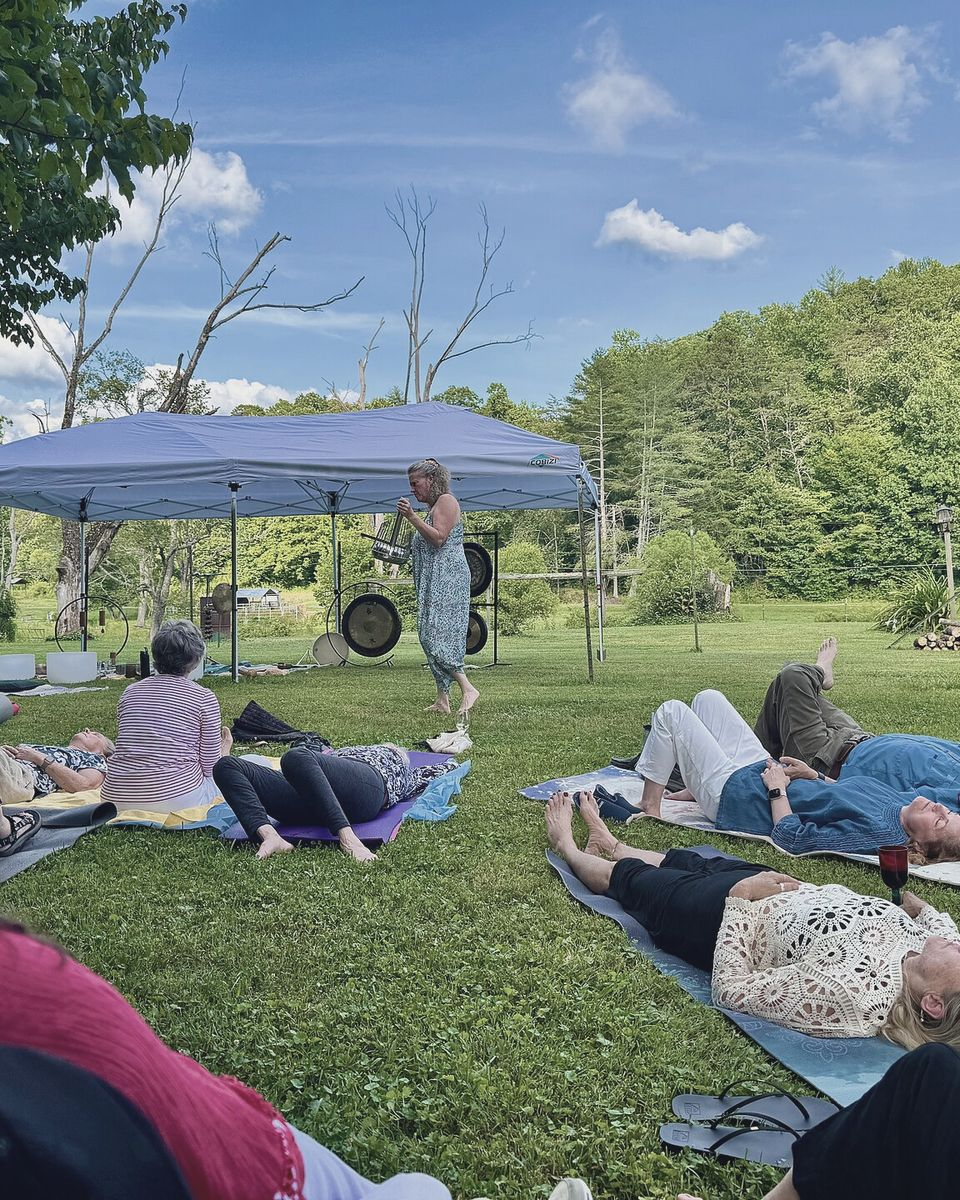
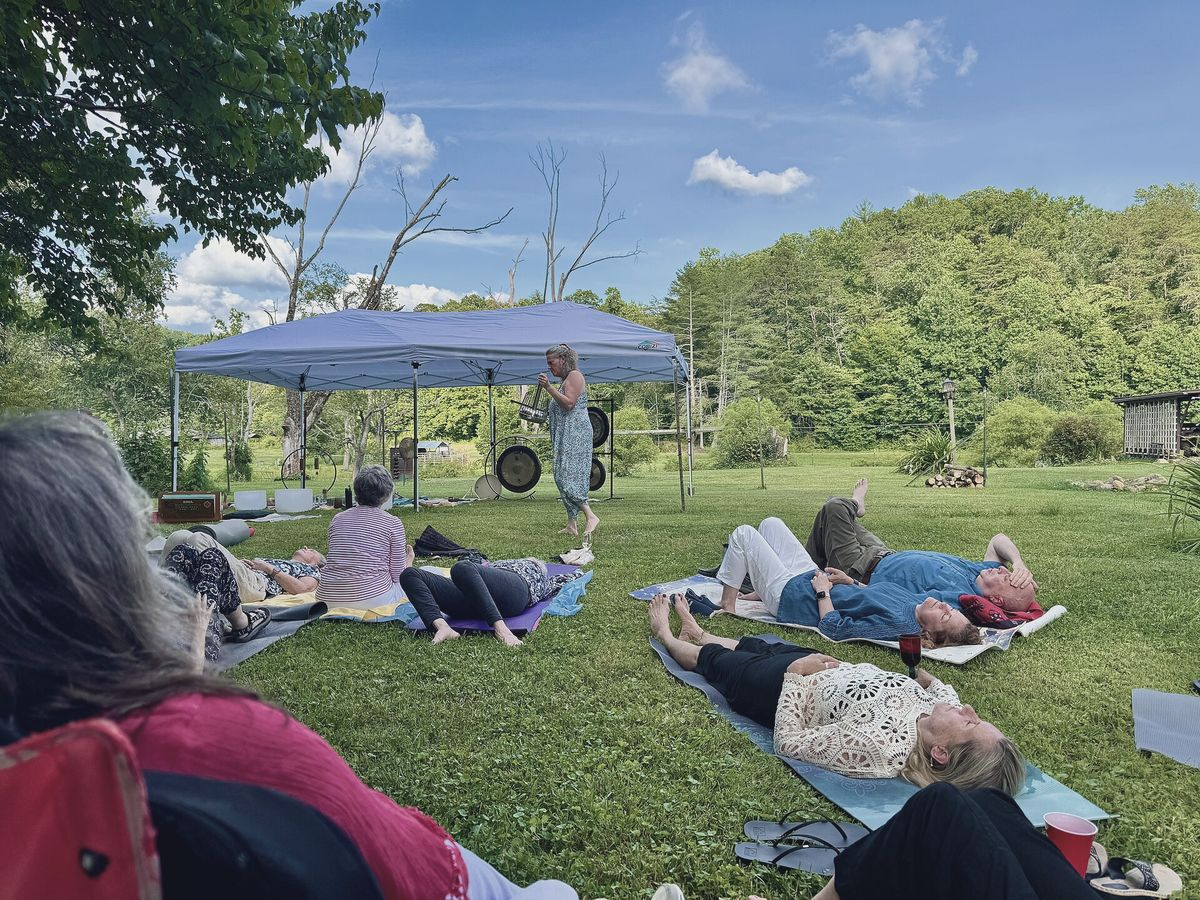
Replace sticky session photo with inline photos per session
The pinned photo released mid-scroll and swapped images at points
that did not match the text being read. Each session now sits beside
its own landscape photo, so the section scrolls as one piece. Also
removes the scroll-tracking script, updates the facilitator photo,
makes the scrolled header solid ivory, and bumps asset versions.

diff --git a/index.html b/index.html
@@ -22,7 +22,7 @@
   <link rel="preconnect" href="https://fonts.googleapis.com">
   <link rel="preconnect" href="https://fonts.gstatic.com" crossorigin>
   <link rel="stylesheet" href="https://fonts.googleapis.com/css2?family=EB+Garamond:ital,wght@0,400;0,500;1,400&family=Jost:wght@300;400;500&display=swap">
-  <link rel="stylesheet" href="css/styles.css?v=2">
+  <link rel="stylesheet" href="css/styles.css?v=3">
 
   <script type="application/ld+json">
   {
@@ -131,55 +131,55 @@
         </div>
 
         <div class="sessions__layout">
-          <div class="sessions__visual" aria-hidden="true">
-            <div class="sessions__frame">
-              <img src="images/session-private.jpg" width="960" height="1200" alt="" class="is-active" data-session-img="private" decoding="async">
-              <img src="images/session-group.jpg" width="960" height="1200" alt="" data-session-img="group" loading="lazy" decoding="async">
-              <img src="images/session-circle.jpg" width="960" height="1200" alt="" data-session-img="circle" loading="lazy" decoding="async">
-              <img src="images/session-workplace.jpg" width="960" height="1200" alt="" data-session-img="workplace" loading="lazy" decoding="async">
-            </div>
-          </div>
 
           <ol class="session-list" role="list">
-            <li class="session is-active" data-session="private">
-              <img class="session__photo" src="images/session-private.jpg" width="960" height="1200" alt="A person lying on a mat with eyes closed, resting" loading="lazy" decoding="async">
-              <h3 class="session__name">Private session</h3>
-              <ul class="session__meta" role="list">
-                <li>60 minutes</li>
-                <li>Just you</li>
-              </ul>
-              <p>A one-to-one session shaped entirely around you. We talk briefly about how you are feeling, then choose the instruments and pace to match. A good place to start if you are new to sound healing.</p>
-              <a class="link" href="https://wa.me/919019000800?text=Hi%2C%20I%27d%20like%20to%20ask%20about%20a%20private%20sound%20healing%20session." target="_blank" rel="noopener">Ask about a private session</a>
+            <li class="session" data-session="private">
+              <img class="session__photo" src="images/session-private.jpg" width="1200" height="900" alt="A person lying on a mat with eyes closed, resting" loading="lazy" decoding="async">
+              <div class="session__body">
+                <h3 class="session__name">Private session</h3>
+                <ul class="session__meta" role="list">
+                  <li>60 minutes</li>
+                  <li>Just you</li>
+                </ul>
+                <p>A one-to-one session shaped entirely around you. We talk briefly about how you are feeling, then choose the instruments and pace to match. A good place to start if you are new to sound healing.</p>
+                <a class="link" href="https://wa.me/919019000800?text=Hi%2C%20I%27d%20like%20to%20ask%20about%20a%20private%20sound%20healing%20session." target="_blank" rel="noopener">Ask about a private session</a>
+              </div>
             </li>
             <li class="session" data-session="group">
-              <img class="session__photo" src="images/session-group.jpg" width="960" height="1200" alt="A group of people lying on mats outdoors during a sound bath" loading="lazy" decoding="async">
-              <h3 class="session__name">Group sound bath</h3>
-              <ul class="session__meta" role="list">
-                <li>75 minutes</li>
-                <li>Up to 12 people</li>
-              </ul>
-              <p>Rest alongside others in a shared wash of sound. Group sessions have a gentle, collective calm that many people find easier to sink into than they expect.</p>
-              <a class="link" href="https://wa.me/919019000800?text=Hi%2C%20I%27d%20like%20to%20ask%20about%20the%20next%20group%20sound%20bath." target="_blank" rel="noopener">Ask about group sessions</a>
+              <img class="session__photo" src="images/session-group.jpg" width="1200" height="900" alt="A group of people lying on mats outdoors during a sound bath" loading="lazy" decoding="async">
+              <div class="session__body">
+                <h3 class="session__name">Group sound bath</h3>
+                <ul class="session__meta" role="list">
+                  <li>75 minutes</li>
+                  <li>Up to 12 people</li>
+                </ul>
+                <p>Rest alongside others in a shared wash of sound. Group sessions have a gentle, collective calm that many people find easier to sink into than they expect.</p>
+                <a class="link" href="https://wa.me/919019000800?text=Hi%2C%20I%27d%20like%20to%20ask%20about%20the%20next%20group%20sound%20bath." target="_blank" rel="noopener">Ask about group sessions</a>
+              </div>
             </li>
             <li class="session" data-session="circle">
-              <img class="session__photo" src="images/session-circle.jpg" width="960" height="1200" alt="A facilitator playing crystal bowls for a small seated group" loading="lazy" decoding="async">
-              <h3 class="session__name">Couples and family</h3>
-              <ul class="session__meta" role="list">
-                <li>60 minutes</li>
-                <li>2 to 4 people</li>
-              </ul>
-              <p>A private session to share with a partner, friend or family members. A quiet hour together, without screens or conversation, that people often remember long after.</p>
-              <a class="link" href="https://wa.me/919019000800?text=Hi%2C%20I%27d%20like%20to%20ask%20about%20a%20couples%20or%20family%20session." target="_blank" rel="noopener">Ask about a shared session</a>
+              <img class="session__photo" src="images/session-circle.jpg" width="1200" height="900" alt="A facilitator playing crystal bowls for a small seated group" loading="lazy" decoding="async">
+              <div class="session__body">
+                <h3 class="session__name">Couples and family</h3>
+                <ul class="session__meta" role="list">
+                  <li>60 minutes</li>
+                  <li>2 to 4 people</li>
+                </ul>
+                <p>A private session to share with a partner, friend or family members. A quiet hour together, without screens or conversation, that people often remember long after.</p>
+                <a class="link" href="https://wa.me/919019000800?text=Hi%2C%20I%27d%20like%20to%20ask%20about%20a%20couples%20or%20family%20session." target="_blank" rel="noopener">Ask about a shared session</a>
+              </div>
             </li>
             <li class="session" data-session="workplace">
-              <img class="session__photo" src="images/session-workplace.jpg" width="960" height="1200" alt="A set of singing bowls arranged in a circle on the floor" loading="lazy" decoding="async">
-              <h3 class="session__name">Workplace sessions</h3>
-              <ul class="session__meta" role="list">
-                <li>45 minutes</li>
-                <li>Teams of any size</li>
-              </ul>
-              <p>We bring the instruments to your office or offsite. A simple, restorative break for busy teams, which works well as part of a wellbeing day or after a demanding stretch of work.</p>
-              <a class="link" href="https://wa.me/919019000800?text=Hi%2C%20I%27d%20like%20to%20ask%20about%20a%20workplace%20sound%20healing%20session." target="_blank" rel="noopener">Ask about workplace sessions</a>
+              <img class="session__photo" src="images/session-workplace.jpg" width="1200" height="900" alt="A set of singing bowls arranged in a circle on the floor" loading="lazy" decoding="async">
+              <div class="session__body">
+                <h3 class="session__name">Workplace sessions</h3>
+                <ul class="session__meta" role="list">
+                  <li>45 minutes</li>
+                  <li>Teams of any size</li>
+                </ul>
+                <p>We bring the instruments to your office or offsite. A simple, restorative break for busy teams, which works well as part of a wellbeing day or after a demanding stretch of work.</p>
+                <a class="link" href="https://wa.me/919019000800?text=Hi%2C%20I%27d%20like%20to%20ask%20about%20a%20workplace%20sound%20healing%20session." target="_blank" rel="noopener">Ask about workplace sessions</a>
+              </div>
             </li>
           </ol>
         </div>
@@ -434,6 +434,6 @@
     </div>
   </footer>
 
-  <script src="js/main.js?v=2" defer></script>
+  <script src="js/main.js?v=3" defer></script>
 </body>
 </html>

diff --git a/css/styles.css b/css/styles.css
@@ -513,64 +513,28 @@ a { color: inherit; }
   .about__figure { max-width: 460px; }
 }
 
-/* Sessions */
+/* Sessions: each session sits beside its own photo, so nothing is pinned or swapped while scrolling */
 
 .sessions { padding: var(--section) 0; }
-.sessions__layout {
+.session-list { list-style: none; }
+.session {
   display: grid;
   grid-template-columns: minmax(0, 5fr) minmax(0, 6fr);
-  gap: clamp(40px, 7vw, 120px);
-  align-items: start;
-}
-.sessions__visual {
-  position: sticky;
-  top: calc(var(--header-h) + 32px);
-}
-.sessions__frame {
-  position: relative;
-  aspect-ratio: 4 / 5;
-  border-radius: 3px;
-  overflow: hidden;
-  background: var(--sand);
-}
-.sessions__frame img {
-  position: absolute;
-  inset: 0;
-  width: 100%;
-  height: 100%;
-  object-fit: cover;
-  opacity: 0;
-  transform: scale(1.03);
-  transition: opacity 0.9s var(--ease-soft), transform 1.6s var(--ease);
-}
-.sessions__frame img.is-active { opacity: 1; transform: none; }
-
-.session-list { list-style: none; counter-reset: none; }
-.session {
-  padding: clamp(36px, 4vw, 52px) 0;
+  gap: clamp(32px, 6vw, 104px);
+  align-items: center;
+  padding: clamp(40px, 5vw, 64px) 0;
   border-top: 1px solid var(--beige);
 }
-.session:last-child { border-bottom: 1px solid var(--beige); }
-.session__photo { display: none; }
-.session__name {
-  position: relative;
-  font-size: var(--step-3);
-  padding-left: 0;
-  transition: padding-left 0.6s var(--ease);
+.session:first-child { padding-top: 0; border-top: 0; }
+.session__photo {
+  width: 100%;
+  aspect-ratio: 4 / 3;
+  object-fit: cover;
+  border-radius: 3px;
+  background: var(--sand);
 }
-.session__name::before {
-  content: "";
-  position: absolute;
-  left: 0; top: 50%;
-  width: 10px; height: 10px;
-  margin-top: -3px;
-  border-radius: 50%;
-  background: var(--terracotta);
-  transform: scale(0);
-  transition: transform 0.6s var(--ease);
-}
-.session.is-active .session__name { padding-left: 26px; }
-.session.is-active .session__name::before { transform: scale(1); }
+.session__body { max-width: 540px; }
+.session__name { font-size: var(--step-3); }
 .session__meta {
   display: flex;
   flex-wrap: wrap;
@@ -587,18 +551,8 @@ a { color: inherit; }
 .session p { max-width: 54ch; color: var(--ink-soft); margin-bottom: 24px; }
 
 @media (max-width: 880px) {
-  .sessions__layout { grid-template-columns: 1fr; }
-  .sessions__visual { display: none; }
-  .session__photo {
-    display: block;
-    width: 100%;
-    aspect-ratio: 3 / 2;
-    object-fit: cover;
-    border-radius: 3px;
-    margin-bottom: 28px;
-  }
-  .session.is-active .session__name { padding-left: 0; }
-  .session__name::before { display: none; }
+  .session { grid-template-columns: 1fr; gap: 28px; }
+  .session__photo { aspect-ratio: 3 / 2; }
 }
 
 /* What happens in a session */

diff --git a/js/main.js b/js/main.js
@@ -192,38 +192,6 @@
     });
   }
 
-  /* Sessions: crossfade the sticky photo to match the session in view */
-  var sessions = document.querySelectorAll("[data-session]");
-  var sessionImgs = document.querySelectorAll("[data-session-img]");
-  function setSession(key) {
-    sessions.forEach(function (s) { s.classList.toggle("is-active", s.dataset.session === key); });
-    sessionImgs.forEach(function (img) {
-      var active = img.dataset.sessionImg === key;
-      if (active && img.loading === "lazy") img.loading = "eager";
-      img.classList.toggle("is-active", active);
-    });
-  }
-  if ("IntersectionObserver" in window && sessions.length) {
-    var sessionObserver = new IntersectionObserver(function (entries) {
-      entries.forEach(function (entry) {
-        if (entry.isIntersecting) setSession(entry.target.dataset.session);
-      });
-    }, { rootMargin: "-42% 0px -42% 0px" });
-    sessions.forEach(function (s) {
-      sessionObserver.observe(s);
-      s.addEventListener("mouseenter", function () { setSession(s.dataset.session); });
-      s.addEventListener("focusin", function () { setSession(s.dataset.session); });
-    });
-    /* Warm the other photos once the section is near, so the crossfade never waits on a download */
-    var warm = new IntersectionObserver(function (entries, obs) {
-      if (entries[0].isIntersecting) {
-        sessionImgs.forEach(function (img) { img.loading = "eager"; });
-        obs.disconnect();
-      }
-    }, { rootMargin: "600px 0px" });
-    warm.observe(document.getElementById("sessions"));
-  }
-
   /* Session steps: draw the wave when the section comes into view */
   var steps = document.querySelector("[data-steps]");
   if (steps) {

diff --git a/SITE-GUIDE.md b/SITE-GUIDE.md
@@ -13,7 +13,7 @@
 
 | What | Where |
 | --- | --- |
-| Photos | Overwrite the files in `images/` using the same names. Portraits (`intro-bowl`, `session-*`, `facilitator`) look best around 960 x 1200. Instrument photos around 1200 x 800. Keep each under about 300 KB. |
+| Photos | Overwrite the files in `images/` using the same names. Portraits (`intro-bowl`, `facilitator`) look best around 960 x 1200. Session photos around 1200 x 900 (landscape). Instrument photos around 1200 x 800. Keep each under about 300 KB. |
 | Enquiry form | Sign up free at web3forms.com with info@svaranstillness.com, then paste the access key into `index.html` where it says `YOUR_WEB3FORMS_ACCESS_KEY`. Until then, the form opens WhatsApp with the visitor's details filled in. |
 | Facilitator name and story | "Your facilitator" section in `index.html` |
 | Session types, durations, group sizes | "Sessions" section in `index.html` (also update the Session dropdown in the form) |
